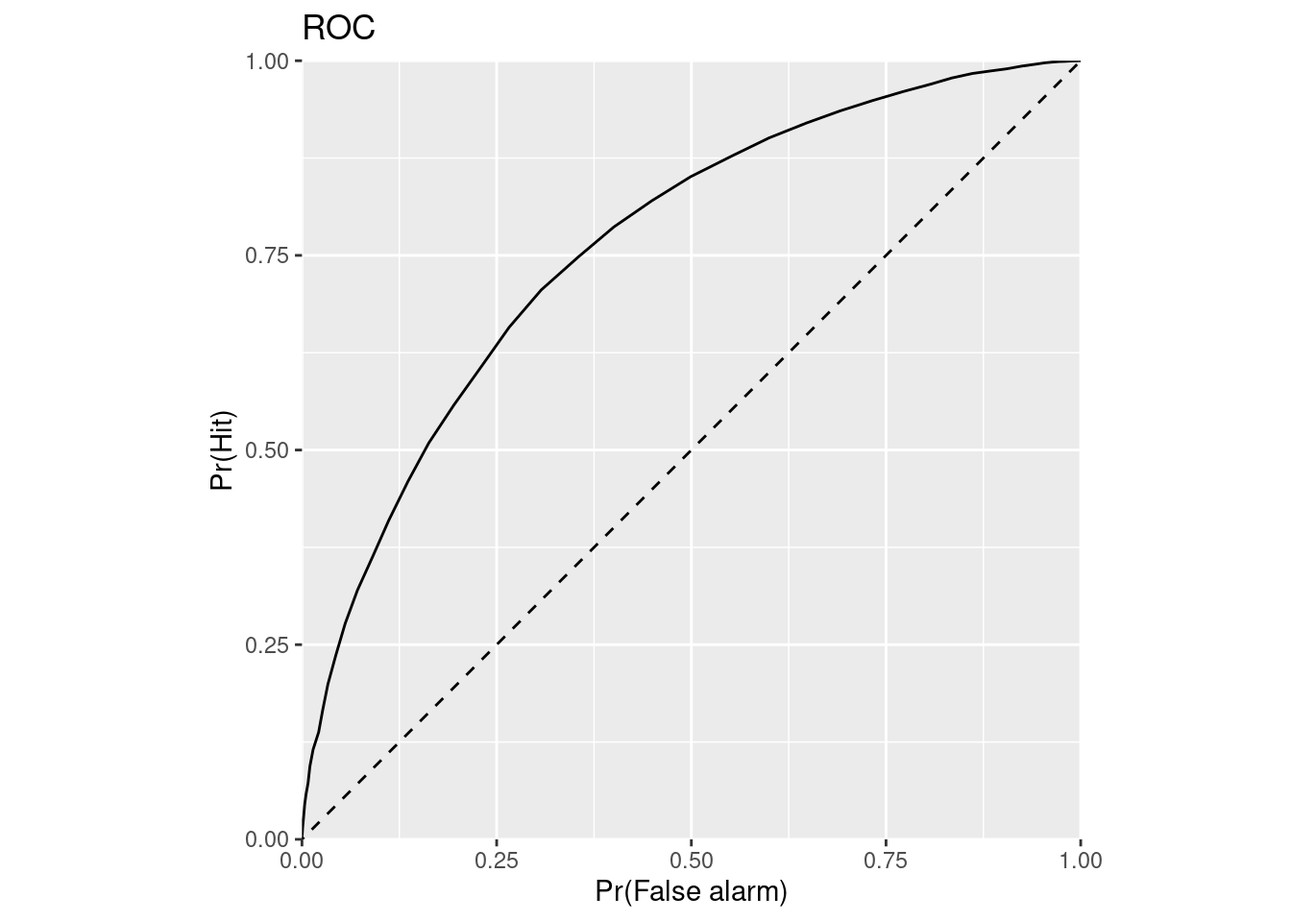
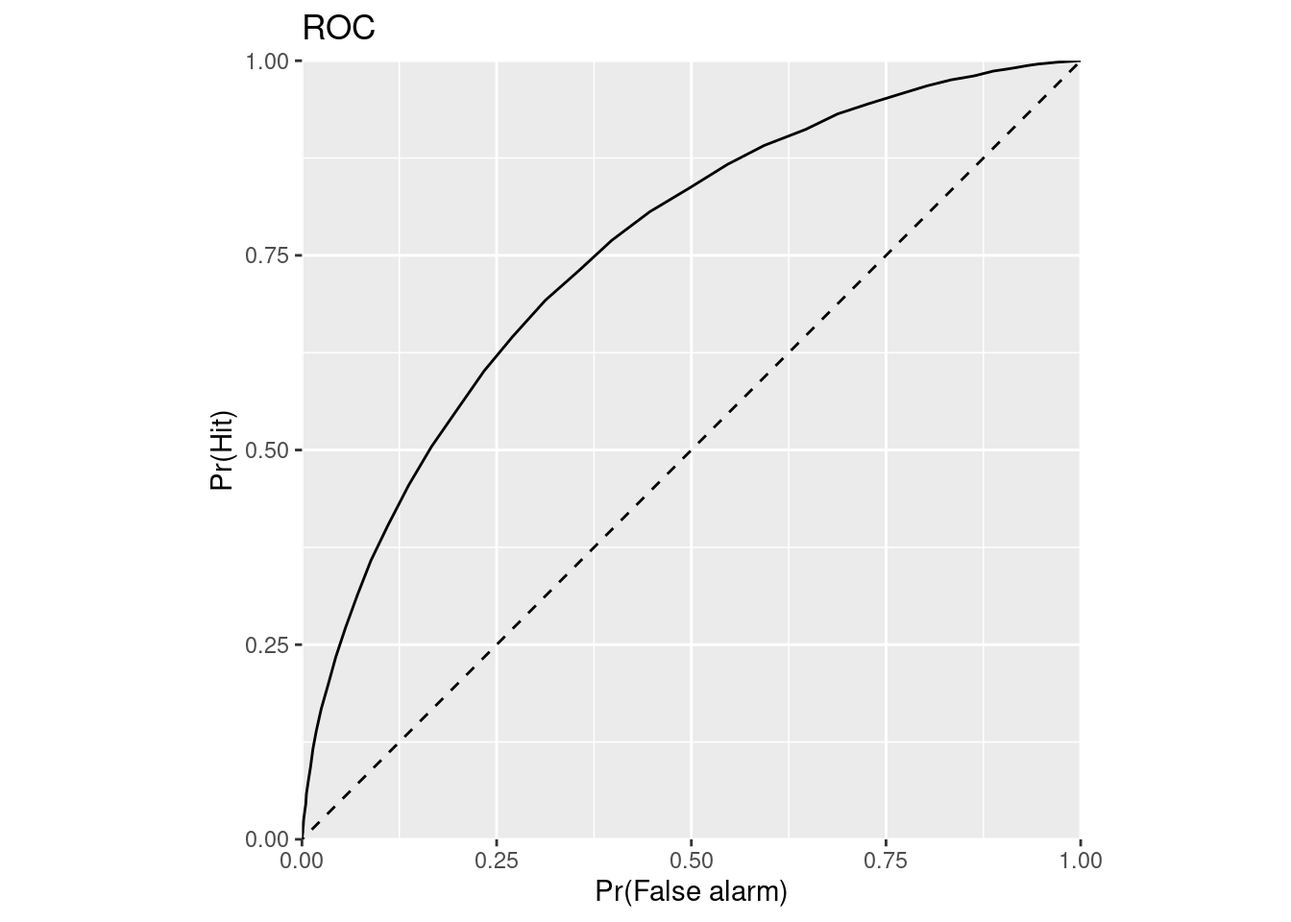
Introduce num_trials variable

diff --git a/docs/sdt.html b/docs/sdt.html
@@ -24,7 +24,7 @@
 <meta name="author" content="Greg Cox" />
 
 
-<meta name="date" content="2021-09-08" />
+<meta name="date" content="2021-09-09" />
 
   <meta name="viewport" content="width=device-width, initial-scale=1" />
   <meta name="apple-mobile-web-app-capable" content="yes" />
@@ -291,7 +291,7 @@ div.csl-indent {
 <h3><span class="header-section-number">1.1.4</span> Modeling strengths</h3>
 <p>We now have a model that instantiates the processes by which strength theory says recognition decisions are made. Pretty neat!</p>
 <p>We have <em>not</em>, however, modeled the distributions of target and foil strength. Instead, we have just plugged in some numbers. Most SDT theories model these strengths as random variables that are sampled from a distribution.</p>
-<p>Another benefit to modeling the strengths is that we can model a situation with a huge number of target/foil trials, far more than would be feasible in any experiment with living creatures. As a result, we can essentially obtain perfect estimates of things like ROC curves by simulating many trials.</p>
+<p>Another benefit to modeling the strengths is that we can model a situation with a huge number of target/foil trials, far more than would be feasible in any experiment with living creatures. As a result, we can essentially obtain perfect estimates of things like ROC curves by simulating many trials (we will keep track of this number using a variable that we will define called <code>num_trials</code>).</p>
 <div id="variability-in-initial-strength" class="section level4" number="1.1.4.1">
 <h4><span class="header-section-number">1.1.4.1</span> Variability in initial strength</h4>
 <p>Let’s begin with a simple model in which we assume that all items initially have a strength that is sampled from a normal distribution with mean 0 and standard deviation 1. When an item is studied, its strength is incremented by <em>exactly</em> 1.</p>
@@ -299,54 +299,60 @@ div.csl-indent {
 <span id="cb18-2"><a href="sdt.html#cb18-2" aria-hidden="true" tabindex="-1"></a>criteria <span class="ot">&lt;-</span> <span class="fu">c</span>(<span class="sc">-</span><span class="cn">Inf</span>, <span class="sc">-</span><span class="fl">0.5</span>, <span class="dv">0</span>, <span class="fl">0.5</span>, <span class="dv">1</span>, <span class="fl">1.5</span>, <span class="cn">Inf</span>)</span>
 <span id="cb18-3"><a href="sdt.html#cb18-3" aria-hidden="true" tabindex="-1"></a></span>
 <span id="cb18-4"><a href="sdt.html#cb18-4" aria-hidden="true" tabindex="-1"></a><span class="co"># 2. Define the strength of the target (studied) and foil (unstudied) items in memory</span></span>
-<span id="cb18-5"><a href="sdt.html#cb18-5" aria-hidden="true" tabindex="-1"></a>foil_strength <span class="ot">&lt;-</span> <span class="fu">rnorm</span>(<span class="at">n =</span> <span class="dv">10000</span>, <span class="at">mean =</span> <span class="dv">0</span>, <span class="at">sd =</span> <span class="dv">1</span>)</span>
-<span id="cb18-6"><a href="sdt.html#cb18-6" aria-hidden="true" tabindex="-1"></a>target_initial_strength <span class="ot">&lt;-</span> <span class="fu">rnorm</span>(<span class="at">n =</span> <span class="dv">10000</span>, <span class="at">mean =</span> <span class="dv">0</span>, <span class="at">sd =</span> <span class="dv">1</span>)</span>
-<span id="cb18-7"><a href="sdt.html#cb18-7" aria-hidden="true" tabindex="-1"></a>study_strength_increment <span class="ot">&lt;-</span> <span class="dv">1</span></span>
-<span id="cb18-8"><a href="sdt.html#cb18-8" aria-hidden="true" tabindex="-1"></a>target_strength <span class="ot">&lt;-</span> target_initial_strength <span class="sc">+</span> study_strength_increment</span>
+<span id="cb18-5"><a href="sdt.html#cb18-5" aria-hidden="true" tabindex="-1"></a>num_trials <span class="ot">&lt;-</span> <span class="dv">10000</span></span>
+<span id="cb18-6"><a href="sdt.html#cb18-6" aria-hidden="true" tabindex="-1"></a></span>
+<span id="cb18-7"><a href="sdt.html#cb18-7" aria-hidden="true" tabindex="-1"></a>foil_strength <span class="ot">&lt;-</span> <span class="fu">rnorm</span>(<span class="at">n =</span> num_trials, <span class="at">mean =</span> <span class="dv">0</span>, <span class="at">sd =</span> <span class="dv">1</span>)</span>
+<span id="cb18-8"><a href="sdt.html#cb18-8" aria-hidden="true" tabindex="-1"></a>target_initial_strength <span class="ot">&lt;-</span> <span class="fu">rnorm</span>(<span class="at">n =</span> num_trials, <span class="at">mean =</span> <span class="dv">0</span>, <span class="at">sd =</span> <span class="dv">1</span>)</span>
 <span id="cb18-9"><a href="sdt.html#cb18-9" aria-hidden="true" tabindex="-1"></a></span>
-<span id="cb18-10"><a href="sdt.html#cb18-10" aria-hidden="true" tabindex="-1"></a><span class="co"># 3. Compare the strengths of each test item to the criteria to arrive at a decision</span></span>
-<span id="cb18-11"><a href="sdt.html#cb18-11" aria-hidden="true" tabindex="-1"></a>foil_response <span class="ot">&lt;-</span> <span class="fu">cut</span>(foil_strength, <span class="at">breaks=</span>criteria, <span class="at">labels=</span><span class="cn">FALSE</span>)</span>
-<span id="cb18-12"><a href="sdt.html#cb18-12" aria-hidden="true" tabindex="-1"></a>target_response <span class="ot">&lt;-</span> <span class="fu">cut</span>(target_strength, <span class="at">breaks=</span>criteria, <span class="at">labels=</span><span class="cn">FALSE</span>)</span>
-<span id="cb18-13"><a href="sdt.html#cb18-13" aria-hidden="true" tabindex="-1"></a></span>
-<span id="cb18-14"><a href="sdt.html#cb18-14" aria-hidden="true" tabindex="-1"></a><span class="co"># 4. Calculate points on ROC curve</span></span>
-<span id="cb18-15"><a href="sdt.html#cb18-15" aria-hidden="true" tabindex="-1"></a>roc_foil <span class="ot">&lt;-</span> <span class="dv">1</span> <span class="sc">-</span> <span class="fu">ecdf</span>(foil_response)(<span class="dv">1</span><span class="sc">:</span><span class="dv">6</span>)</span>
-<span id="cb18-16"><a href="sdt.html#cb18-16" aria-hidden="true" tabindex="-1"></a>roc_target <span class="ot">&lt;-</span> <span class="dv">1</span> <span class="sc">-</span> <span class="fu">ecdf</span>(target_response)(<span class="dv">1</span><span class="sc">:</span><span class="dv">6</span>)</span>
-<span id="cb18-17"><a href="sdt.html#cb18-17" aria-hidden="true" tabindex="-1"></a></span>
-<span id="cb18-18"><a href="sdt.html#cb18-18" aria-hidden="true" tabindex="-1"></a><span class="co"># 5. Plot ROC</span></span>
-<span id="cb18-19"><a href="sdt.html#cb18-19" aria-hidden="true" tabindex="-1"></a><span class="fu">ggplot</span>(<span class="at">mapping=</span><span class="fu">aes</span>(<span class="at">x =</span> roc_foil, <span class="at">y =</span> roc_target)) <span class="sc">+</span></span>
-<span id="cb18-20"><a href="sdt.html#cb18-20" aria-hidden="true" tabindex="-1"></a>    <span class="fu">geom_point</span>() <span class="sc">+</span></span>
-<span id="cb18-21"><a href="sdt.html#cb18-21" aria-hidden="true" tabindex="-1"></a>    <span class="fu">geom_abline</span>(<span class="at">intercept =</span> <span class="dv">0</span>, <span class="at">slope =</span> <span class="dv">1</span>, <span class="at">color=</span><span class="st">&#39;black&#39;</span>, <span class="at">linetype =</span> <span class="st">&#39;dashed&#39;</span>) <span class="sc">+</span></span>
-<span id="cb18-22"><a href="sdt.html#cb18-22" aria-hidden="true" tabindex="-1"></a>    <span class="fu">labs</span>(<span class="at">x =</span> <span class="st">&#39;Pr(False alarm)&#39;</span>, <span class="at">y =</span> <span class="st">&#39;Pr(Hit)&#39;</span>, <span class="at">title =</span> <span class="st">&#39;ROC&#39;</span>) <span class="sc">+</span></span>
-<span id="cb18-23"><a href="sdt.html#cb18-23" aria-hidden="true" tabindex="-1"></a>    <span class="fu">coord_fixed</span>(<span class="at">xlim=</span><span class="fu">c</span>(<span class="dv">0</span>, <span class="dv">1</span>), <span class="at">ylim=</span><span class="fu">c</span>(<span class="dv">0</span>, <span class="dv">1</span>), <span class="at">expand=</span><span class="cn">FALSE</span>)</span></code></pre></div>
+<span id="cb18-10"><a href="sdt.html#cb18-10" aria-hidden="true" tabindex="-1"></a>study_strength_increment <span class="ot">&lt;-</span> <span class="dv">1</span></span>
+<span id="cb18-11"><a href="sdt.html#cb18-11" aria-hidden="true" tabindex="-1"></a>target_strength <span class="ot">&lt;-</span> target_initial_strength <span class="sc">+</span> study_strength_increment</span>
+<span id="cb18-12"><a href="sdt.html#cb18-12" aria-hidden="true" tabindex="-1"></a></span>
+<span id="cb18-13"><a href="sdt.html#cb18-13" aria-hidden="true" tabindex="-1"></a><span class="co"># 3. Compare the strengths of each test item to the criteria to arrive at a decision</span></span>
+<span id="cb18-14"><a href="sdt.html#cb18-14" aria-hidden="true" tabindex="-1"></a>foil_response <span class="ot">&lt;-</span> <span class="fu">cut</span>(foil_strength, <span class="at">breaks=</span>criteria, <span class="at">labels=</span><span class="cn">FALSE</span>)</span>
+<span id="cb18-15"><a href="sdt.html#cb18-15" aria-hidden="true" tabindex="-1"></a>target_response <span class="ot">&lt;-</span> <span class="fu">cut</span>(target_strength, <span class="at">breaks=</span>criteria, <span class="at">labels=</span><span class="cn">FALSE</span>)</span>
+<span id="cb18-16"><a href="sdt.html#cb18-16" aria-hidden="true" tabindex="-1"></a></span>
+<span id="cb18-17"><a href="sdt.html#cb18-17" aria-hidden="true" tabindex="-1"></a><span class="co"># 4. Calculate points on ROC curve</span></span>
+<span id="cb18-18"><a href="sdt.html#cb18-18" aria-hidden="true" tabindex="-1"></a>roc_foil <span class="ot">&lt;-</span> <span class="dv">1</span> <span class="sc">-</span> <span class="fu">ecdf</span>(foil_response)(<span class="dv">1</span><span class="sc">:</span><span class="dv">6</span>)</span>
+<span id="cb18-19"><a href="sdt.html#cb18-19" aria-hidden="true" tabindex="-1"></a>roc_target <span class="ot">&lt;-</span> <span class="dv">1</span> <span class="sc">-</span> <span class="fu">ecdf</span>(target_response)(<span class="dv">1</span><span class="sc">:</span><span class="dv">6</span>)</span>
+<span id="cb18-20"><a href="sdt.html#cb18-20" aria-hidden="true" tabindex="-1"></a></span>
+<span id="cb18-21"><a href="sdt.html#cb18-21" aria-hidden="true" tabindex="-1"></a><span class="co"># 5. Plot ROC</span></span>
+<span id="cb18-22"><a href="sdt.html#cb18-22" aria-hidden="true" tabindex="-1"></a><span class="fu">ggplot</span>(<span class="at">mapping=</span><span class="fu">aes</span>(<span class="at">x =</span> roc_foil, <span class="at">y =</span> roc_target)) <span class="sc">+</span></span>
+<span id="cb18-23"><a href="sdt.html#cb18-23" aria-hidden="true" tabindex="-1"></a>    <span class="fu">geom_point</span>() <span class="sc">+</span></span>
+<span id="cb18-24"><a href="sdt.html#cb18-24" aria-hidden="true" tabindex="-1"></a>    <span class="fu">geom_abline</span>(<span class="at">intercept =</span> <span class="dv">0</span>, <span class="at">slope =</span> <span class="dv">1</span>, <span class="at">color=</span><span class="st">&#39;black&#39;</span>, <span class="at">linetype =</span> <span class="st">&#39;dashed&#39;</span>) <span class="sc">+</span></span>
+<span id="cb18-25"><a href="sdt.html#cb18-25" aria-hidden="true" tabindex="-1"></a>    <span class="fu">labs</span>(<span class="at">x =</span> <span class="st">&#39;Pr(False alarm)&#39;</span>, <span class="at">y =</span> <span class="st">&#39;Pr(Hit)&#39;</span>, <span class="at">title =</span> <span class="st">&#39;ROC&#39;</span>) <span class="sc">+</span></span>
+<span id="cb18-26"><a href="sdt.html#cb18-26" aria-hidden="true" tabindex="-1"></a>    <span class="fu">coord_fixed</span>(<span class="at">xlim=</span><span class="fu">c</span>(<span class="dv">0</span>, <span class="dv">1</span>), <span class="at">ylim=</span><span class="fu">c</span>(<span class="dv">0</span>, <span class="dv">1</span>), <span class="at">expand=</span><span class="cn">FALSE</span>)</span></code></pre></div>
 <p><img src="01-sdt_files/figure-html/unnamed-chunk-12-1.png" width="672" /></p>
 </div>
 <div id="fine-grained-rocs" class="section level4" number="1.1.4.2">
 <h4><span class="header-section-number">1.1.4.2</span> Fine-grained ROC’s</h4>
-<p>Cool! Again, since we’re not using a living creature, we can also ask the model to use an absurdly large number of criteria. The value of this is that it gives us a much more fine-grained picture of the ROC. Even though we couldn’t get such a picture in real life, if the model is a reasonably good approximation to reality, knowing the detailed model ROC let’s us know the kind of shapes we would <em>expect</em> to see in an experiment.</p>
+<p>Cool! Again, since we’re not using a living creature, we can also ask the model to use an absurdly large number of criteria (again, to keep track of this, we will make it into a variable called <code>num_criteria</code>). The value of this is that it gives us a much more fine-grained picture of the ROC. Even though we couldn’t get such a picture in real life, if the model is a reasonably good approximation to reality, knowing the detailed model ROC let’s us know the kind of shapes we would <em>expect</em> to see in an experiment.</p>
 <div class="sourceCode" id="cb19"><pre class="sourceCode r"><code class="sourceCode r"><span id="cb19-1"><a href="sdt.html#cb19-1" aria-hidden="true" tabindex="-1"></a><span class="co"># 1. Define one or more decision criteria</span></span>
 <span id="cb19-2"><a href="sdt.html#cb19-2" aria-hidden="true" tabindex="-1"></a>num_criteria <span class="ot">&lt;-</span> <span class="dv">100</span></span>
 <span id="cb19-3"><a href="sdt.html#cb19-3" aria-hidden="true" tabindex="-1"></a>criteria <span class="ot">&lt;-</span> <span class="fu">c</span>(<span class="sc">-</span><span class="cn">Inf</span>, <span class="fu">seq</span>(<span class="sc">-</span><span class="dv">6</span>, <span class="dv">6</span>, <span class="at">length.out =</span> num_criteria <span class="sc">-</span> <span class="dv">1</span>), <span class="cn">Inf</span>)</span>
 <span id="cb19-4"><a href="sdt.html#cb19-4" aria-hidden="true" tabindex="-1"></a></span>
 <span id="cb19-5"><a href="sdt.html#cb19-5" aria-hidden="true" tabindex="-1"></a><span class="co"># 2. Define the strength of the target (studied) and foil (unstudied) items in memory</span></span>
-<span id="cb19-6"><a href="sdt.html#cb19-6" aria-hidden="true" tabindex="-1"></a>foil_strength <span class="ot">&lt;-</span> <span class="fu">rnorm</span>(<span class="at">n =</span> <span class="dv">10000</span>, <span class="at">mean =</span> <span class="dv">0</span>, <span class="at">sd =</span> <span class="dv">1</span>)</span>
-<span id="cb19-7"><a href="sdt.html#cb19-7" aria-hidden="true" tabindex="-1"></a>target_initial_strength <span class="ot">&lt;-</span> <span class="fu">rnorm</span>(<span class="at">n =</span> <span class="dv">10000</span>, <span class="at">mean =</span> <span class="dv">0</span>, <span class="at">sd =</span> <span class="dv">1</span>)</span>
-<span id="cb19-8"><a href="sdt.html#cb19-8" aria-hidden="true" tabindex="-1"></a>study_strength_increment <span class="ot">&lt;-</span> <span class="dv">1</span></span>
-<span id="cb19-9"><a href="sdt.html#cb19-9" aria-hidden="true" tabindex="-1"></a>target_strength <span class="ot">&lt;-</span> target_initial_strength <span class="sc">+</span> study_strength_increment</span>
+<span id="cb19-6"><a href="sdt.html#cb19-6" aria-hidden="true" tabindex="-1"></a>num_trials <span class="ot">&lt;-</span> <span class="dv">10000</span></span>
+<span id="cb19-7"><a href="sdt.html#cb19-7" aria-hidden="true" tabindex="-1"></a></span>
+<span id="cb19-8"><a href="sdt.html#cb19-8" aria-hidden="true" tabindex="-1"></a>foil_strength <span class="ot">&lt;-</span> <span class="fu">rnorm</span>(<span class="at">n =</span> num_trials, <span class="at">mean =</span> <span class="dv">0</span>, <span class="at">sd =</span> <span class="dv">1</span>)</span>
+<span id="cb19-9"><a href="sdt.html#cb19-9" aria-hidden="true" tabindex="-1"></a>target_initial_strength <span class="ot">&lt;-</span> <span class="fu">rnorm</span>(<span class="at">n =</span> num_trials, <span class="at">mean =</span> <span class="dv">0</span>, <span class="at">sd =</span> <span class="dv">1</span>)</span>
 <span id="cb19-10"><a href="sdt.html#cb19-10" aria-hidden="true" tabindex="-1"></a></span>
-<span id="cb19-11"><a href="sdt.html#cb19-11" aria-hidden="true" tabindex="-1"></a><span class="co"># 3. Compare the strengths of each test item to the criteria to arrive at a decision</span></span>
-<span id="cb19-12"><a href="sdt.html#cb19-12" aria-hidden="true" tabindex="-1"></a>foil_response <span class="ot">&lt;-</span> <span class="fu">cut</span>(foil_strength, <span class="at">breaks=</span>criteria, <span class="at">labels=</span><span class="cn">FALSE</span>)</span>
-<span id="cb19-13"><a href="sdt.html#cb19-13" aria-hidden="true" tabindex="-1"></a>target_response <span class="ot">&lt;-</span> <span class="fu">cut</span>(target_strength, <span class="at">breaks=</span>criteria, <span class="at">labels=</span><span class="cn">FALSE</span>)</span>
-<span id="cb19-14"><a href="sdt.html#cb19-14" aria-hidden="true" tabindex="-1"></a></span>
-<span id="cb19-15"><a href="sdt.html#cb19-15" aria-hidden="true" tabindex="-1"></a><span class="co"># 4. Calculate points on ROC curve</span></span>
-<span id="cb19-16"><a href="sdt.html#cb19-16" aria-hidden="true" tabindex="-1"></a>roc_foil <span class="ot">&lt;-</span> <span class="dv">1</span> <span class="sc">-</span> <span class="fu">ecdf</span>(foil_response)(<span class="dv">1</span><span class="sc">:</span>num_criteria)</span>
-<span id="cb19-17"><a href="sdt.html#cb19-17" aria-hidden="true" tabindex="-1"></a>roc_target <span class="ot">&lt;-</span> <span class="dv">1</span> <span class="sc">-</span> <span class="fu">ecdf</span>(target_response)(<span class="dv">1</span><span class="sc">:</span>num_criteria)</span>
-<span id="cb19-18"><a href="sdt.html#cb19-18" aria-hidden="true" tabindex="-1"></a></span>
-<span id="cb19-19"><a href="sdt.html#cb19-19" aria-hidden="true" tabindex="-1"></a><span class="co"># 5. Plot ROC</span></span>
-<span id="cb19-20"><a href="sdt.html#cb19-20" aria-hidden="true" tabindex="-1"></a><span class="fu">ggplot</span>(<span class="at">mapping=</span><span class="fu">aes</span>(<span class="at">x =</span> roc_foil, <span class="at">y =</span> roc_target)) <span class="sc">+</span></span>
-<span id="cb19-21"><a href="sdt.html#cb19-21" aria-hidden="true" tabindex="-1"></a>    <span class="fu">geom_line</span>() <span class="sc">+</span></span>
-<span id="cb19-22"><a href="sdt.html#cb19-22" aria-hidden="true" tabindex="-1"></a>    <span class="fu">geom_abline</span>(<span class="at">intercept =</span> <span class="dv">0</span>, <span class="at">slope =</span> <span class="dv">1</span>, <span class="at">color=</span><span class="st">&#39;black&#39;</span>, <span class="at">linetype =</span> <span class="st">&#39;dashed&#39;</span>) <span class="sc">+</span></span>
-<span id="cb19-23"><a href="sdt.html#cb19-23" aria-hidden="true" tabindex="-1"></a>    <span class="fu">labs</span>(<span class="at">x =</span> <span class="st">&#39;Pr(False alarm)&#39;</span>, <span class="at">y =</span> <span class="st">&#39;Pr(Hit)&#39;</span>, <span class="at">title =</span> <span class="st">&#39;ROC&#39;</span>) <span class="sc">+</span></span>
-<span id="cb19-24"><a href="sdt.html#cb19-24" aria-hidden="true" tabindex="-1"></a>    <span class="fu">coord_fixed</span>(<span class="at">xlim=</span><span class="fu">c</span>(<span class="dv">0</span>, <span class="dv">1</span>), <span class="at">ylim=</span><span class="fu">c</span>(<span class="dv">0</span>, <span class="dv">1</span>), <span class="at">expand=</span><span class="cn">FALSE</span>)</span></code></pre></div>
+<span id="cb19-11"><a href="sdt.html#cb19-11" aria-hidden="true" tabindex="-1"></a>study_strength_increment <span class="ot">&lt;-</span> <span class="dv">1</span></span>
+<span id="cb19-12"><a href="sdt.html#cb19-12" aria-hidden="true" tabindex="-1"></a>target_strength <span class="ot">&lt;-</span> target_initial_strength <span class="sc">+</span> study_strength_increment</span>
+<span id="cb19-13"><a href="sdt.html#cb19-13" aria-hidden="true" tabindex="-1"></a></span>
+<span id="cb19-14"><a href="sdt.html#cb19-14" aria-hidden="true" tabindex="-1"></a><span class="co"># 3. Compare the strengths of each test item to the criteria to arrive at a decision</span></span>
+<span id="cb19-15"><a href="sdt.html#cb19-15" aria-hidden="true" tabindex="-1"></a>foil_response <span class="ot">&lt;-</span> <span class="fu">cut</span>(foil_strength, <span class="at">breaks=</span>criteria, <span class="at">labels=</span><span class="cn">FALSE</span>)</span>
+<span id="cb19-16"><a href="sdt.html#cb19-16" aria-hidden="true" tabindex="-1"></a>target_response <span class="ot">&lt;-</span> <span class="fu">cut</span>(target_strength, <span class="at">breaks=</span>criteria, <span class="at">labels=</span><span class="cn">FALSE</span>)</span>
+<span id="cb19-17"><a href="sdt.html#cb19-17" aria-hidden="true" tabindex="-1"></a></span>
+<span id="cb19-18"><a href="sdt.html#cb19-18" aria-hidden="true" tabindex="-1"></a><span class="co"># 4. Calculate points on ROC curve</span></span>
+<span id="cb19-19"><a href="sdt.html#cb19-19" aria-hidden="true" tabindex="-1"></a>roc_foil <span class="ot">&lt;-</span> <span class="dv">1</span> <span class="sc">-</span> <span class="fu">ecdf</span>(foil_response)(<span class="dv">1</span><span class="sc">:</span>num_criteria)</span>
+<span id="cb19-20"><a href="sdt.html#cb19-20" aria-hidden="true" tabindex="-1"></a>roc_target <span class="ot">&lt;-</span> <span class="dv">1</span> <span class="sc">-</span> <span class="fu">ecdf</span>(target_response)(<span class="dv">1</span><span class="sc">:</span>num_criteria)</span>
+<span id="cb19-21"><a href="sdt.html#cb19-21" aria-hidden="true" tabindex="-1"></a></span>
+<span id="cb19-22"><a href="sdt.html#cb19-22" aria-hidden="true" tabindex="-1"></a><span class="co"># 5. Plot ROC</span></span>
+<span id="cb19-23"><a href="sdt.html#cb19-23" aria-hidden="true" tabindex="-1"></a><span class="fu">ggplot</span>(<span class="at">mapping=</span><span class="fu">aes</span>(<span class="at">x =</span> roc_foil, <span class="at">y =</span> roc_target)) <span class="sc">+</span></span>
+<span id="cb19-24"><a href="sdt.html#cb19-24" aria-hidden="true" tabindex="-1"></a>    <span class="fu">geom_line</span>() <span class="sc">+</span></span>
+<span id="cb19-25"><a href="sdt.html#cb19-25" aria-hidden="true" tabindex="-1"></a>    <span class="fu">geom_abline</span>(<span class="at">intercept =</span> <span class="dv">0</span>, <span class="at">slope =</span> <span class="dv">1</span>, <span class="at">color=</span><span class="st">&#39;black&#39;</span>, <span class="at">linetype =</span> <span class="st">&#39;dashed&#39;</span>) <span class="sc">+</span></span>
+<span id="cb19-26"><a href="sdt.html#cb19-26" aria-hidden="true" tabindex="-1"></a>    <span class="fu">labs</span>(<span class="at">x =</span> <span class="st">&#39;Pr(False alarm)&#39;</span>, <span class="at">y =</span> <span class="st">&#39;Pr(Hit)&#39;</span>, <span class="at">title =</span> <span class="st">&#39;ROC&#39;</span>) <span class="sc">+</span></span>
+<span id="cb19-27"><a href="sdt.html#cb19-27" aria-hidden="true" tabindex="-1"></a>    <span class="fu">coord_fixed</span>(<span class="at">xlim=</span><span class="fu">c</span>(<span class="dv">0</span>, <span class="dv">1</span>), <span class="at">ylim=</span><span class="fu">c</span>(<span class="dv">0</span>, <span class="dv">1</span>), <span class="at">expand=</span><span class="cn">FALSE</span>)</span></code></pre></div>
 <p><img src="01-sdt_files/figure-html/unnamed-chunk-13-1.png" width="672" /></p>
 </div>
 <div id="variability-in-study-strength-increments" class="section level4" number="1.1.4.3">
@@ -357,25 +363,28 @@ div.csl-indent {
 <span id="cb20-3"><a href="sdt.html#cb20-3" aria-hidden="true" tabindex="-1"></a>criteria <span class="ot">&lt;-</span> <span class="fu">c</span>(<span class="sc">-</span><span class="cn">Inf</span>, <span class="fu">seq</span>(<span class="sc">-</span><span class="dv">6</span>, <span class="dv">6</span>, <span class="at">length.out =</span> num_criteria <span class="sc">-</span> <span class="dv">1</span>), <span class="cn">Inf</span>)</span>
 <span id="cb20-4"><a href="sdt.html#cb20-4" aria-hidden="true" tabindex="-1"></a></span>
 <span id="cb20-5"><a href="sdt.html#cb20-5" aria-hidden="true" tabindex="-1"></a><span class="co"># 2. Define the strength of the target (studied) and foil (unstudied) items in memory</span></span>
-<span id="cb20-6"><a href="sdt.html#cb20-6" aria-hidden="true" tabindex="-1"></a>foil_strength <span class="ot">&lt;-</span> <span class="fu">rnorm</span>(<span class="at">n =</span> <span class="dv">10000</span>, <span class="at">mean =</span> <span class="dv">0</span>, <span class="at">sd =</span> <span class="dv">1</span>)</span>
-<span id="cb20-7"><a href="sdt.html#cb20-7" aria-hidden="true" tabindex="-1"></a>target_initial_strength <span class="ot">&lt;-</span> <span class="fu">rnorm</span>(<span class="at">n =</span> <span class="dv">10000</span>, <span class="at">mean =</span> <span class="dv">0</span>, <span class="at">sd =</span> <span class="dv">1</span>)</span>
-<span id="cb20-8"><a href="sdt.html#cb20-8" aria-hidden="true" tabindex="-1"></a>study_strength_increment <span class="ot">&lt;-</span> <span class="fu">rnorm</span>(<span class="at">n =</span> <span class="dv">10000</span>, <span class="at">mean =</span> <span class="dv">1</span>, <span class="at">sd =</span> <span class="dv">1</span>)</span>
-<span id="cb20-9"><a href="sdt.html#cb20-9" aria-hidden="true" tabindex="-1"></a>target_strength <span class="ot">&lt;-</span> target_initial_strength <span class="sc">+</span> study_strength_increment</span>
+<span id="cb20-6"><a href="sdt.html#cb20-6" aria-hidden="true" tabindex="-1"></a>num_trials <span class="ot">&lt;-</span> <span class="dv">10000</span></span>
+<span id="cb20-7"><a href="sdt.html#cb20-7" aria-hidden="true" tabindex="-1"></a></span>
+<span id="cb20-8"><a href="sdt.html#cb20-8" aria-hidden="true" tabindex="-1"></a>foil_strength <span class="ot">&lt;-</span> <span class="fu">rnorm</span>(<span class="at">n =</span> num_trials, <span class="at">mean =</span> <span class="dv">0</span>, <span class="at">sd =</span> <span class="dv">1</span>)</span>
+<span id="cb20-9"><a href="sdt.html#cb20-9" aria-hidden="true" tabindex="-1"></a>target_initial_strength <span class="ot">&lt;-</span> <span class="fu">rnorm</span>(<span class="at">n =</span> num_trials, <span class="at">mean =</span> <span class="dv">0</span>, <span class="at">sd =</span> <span class="dv">1</span>)</span>
 <span id="cb20-10"><a href="sdt.html#cb20-10" aria-hidden="true" tabindex="-1"></a></span>
-<span id="cb20-11"><a href="sdt.html#cb20-11" aria-hidden="true" tabindex="-1"></a><span class="co"># 3. Compare the strengths of each test item to the criteria to arrive at a decision</span></span>
-<span id="cb20-12"><a href="sdt.html#cb20-12" aria-hidden="true" tabindex="-1"></a>foil_response <span class="ot">&lt;-</span> <span class="fu">cut</span>(foil_strength, <span class="at">breaks=</span>criteria, <span class="at">labels=</span><span class="cn">FALSE</span>)</span>
-<span id="cb20-13"><a href="sdt.html#cb20-13" aria-hidden="true" tabindex="-1"></a>target_response <span class="ot">&lt;-</span> <span class="fu">cut</span>(target_strength, <span class="at">breaks=</span>criteria, <span class="at">labels=</span><span class="cn">FALSE</span>)</span>
-<span id="cb20-14"><a href="sdt.html#cb20-14" aria-hidden="true" tabindex="-1"></a></span>
-<span id="cb20-15"><a href="sdt.html#cb20-15" aria-hidden="true" tabindex="-1"></a><span class="co"># 4. Calculate points on ROC curve</span></span>
-<span id="cb20-16"><a href="sdt.html#cb20-16" aria-hidden="true" tabindex="-1"></a>roc_foil <span class="ot">&lt;-</span> <span class="dv">1</span> <span class="sc">-</span> <span class="fu">ecdf</span>(foil_response)(<span class="dv">1</span><span class="sc">:</span>num_criteria)</span>
-<span id="cb20-17"><a href="sdt.html#cb20-17" aria-hidden="true" tabindex="-1"></a>roc_target <span class="ot">&lt;-</span> <span class="dv">1</span> <span class="sc">-</span> <span class="fu">ecdf</span>(target_response)(<span class="dv">1</span><span class="sc">:</span>num_criteria)</span>
-<span id="cb20-18"><a href="sdt.html#cb20-18" aria-hidden="true" tabindex="-1"></a></span>
-<span id="cb20-19"><a href="sdt.html#cb20-19" aria-hidden="true" tabindex="-1"></a><span class="co"># 5. Plot ROC</span></span>
-<span id="cb20-20"><a href="sdt.html#cb20-20" aria-hidden="true" tabindex="-1"></a><span class="fu">ggplot</span>(<span class="at">mapping=</span><span class="fu">aes</span>(<span class="at">x =</span> roc_foil, <span class="at">y =</span> roc_target)) <span class="sc">+</span></span>
-<span id="cb20-21"><a href="sdt.html#cb20-21" aria-hidden="true" tabindex="-1"></a>    <span class="fu">geom_line</span>() <span class="sc">+</span></span>
-<span id="cb20-22"><a href="sdt.html#cb20-22" aria-hidden="true" tabindex="-1"></a>    <span class="fu">geom_abline</span>(<span class="at">intercept =</span> <span class="dv">0</span>, <span class="at">slope =</span> <span class="dv">1</span>, <span class="at">color=</span><span class="st">&#39;black&#39;</span>, <span class="at">linetype =</span> <span class="st">&#39;dashed&#39;</span>) <span class="sc">+</span></span>
-<span id="cb20-23"><a href="sdt.html#cb20-23" aria-hidden="true" tabindex="-1"></a>    <span class="fu">labs</span>(<span class="at">x =</span> <span class="st">&#39;Pr(False alarm)&#39;</span>, <span class="at">y =</span> <span class="st">&#39;Pr(Hit)&#39;</span>, <span class="at">title =</span> <span class="st">&#39;ROC&#39;</span>) <span class="sc">+</span></span>
-<span id="cb20-24"><a href="sdt.html#cb20-24" aria-hidden="true" tabindex="-1"></a>    <span class="fu">coord_fixed</span>(<span class="at">xlim=</span><span class="fu">c</span>(<span class="dv">0</span>, <span class="dv">1</span>), <span class="at">ylim=</span><span class="fu">c</span>(<span class="dv">0</span>, <span class="dv">1</span>), <span class="at">expand=</span><span class="cn">FALSE</span>)</span></code></pre></div>
+<span id="cb20-11"><a href="sdt.html#cb20-11" aria-hidden="true" tabindex="-1"></a>study_strength_increment <span class="ot">&lt;-</span> <span class="fu">rnorm</span>(<span class="at">n =</span> num_trials, <span class="at">mean =</span> <span class="dv">1</span>, <span class="at">sd =</span> <span class="dv">1</span>)</span>
+<span id="cb20-12"><a href="sdt.html#cb20-12" aria-hidden="true" tabindex="-1"></a>target_strength <span class="ot">&lt;-</span> target_initial_strength <span class="sc">+</span> study_strength_increment</span>
+<span id="cb20-13"><a href="sdt.html#cb20-13" aria-hidden="true" tabindex="-1"></a></span>
+<span id="cb20-14"><a href="sdt.html#cb20-14" aria-hidden="true" tabindex="-1"></a><span class="co"># 3. Compare the strengths of each test item to the criteria to arrive at a decision</span></span>
+<span id="cb20-15"><a href="sdt.html#cb20-15" aria-hidden="true" tabindex="-1"></a>foil_response <span class="ot">&lt;-</span> <span class="fu">cut</span>(foil_strength, <span class="at">breaks=</span>criteria, <span class="at">labels=</span><span class="cn">FALSE</span>)</span>
+<span id="cb20-16"><a href="sdt.html#cb20-16" aria-hidden="true" tabindex="-1"></a>target_response <span class="ot">&lt;-</span> <span class="fu">cut</span>(target_strength, <span class="at">breaks=</span>criteria, <span class="at">labels=</span><span class="cn">FALSE</span>)</span>
+<span id="cb20-17"><a href="sdt.html#cb20-17" aria-hidden="true" tabindex="-1"></a></span>
+<span id="cb20-18"><a href="sdt.html#cb20-18" aria-hidden="true" tabindex="-1"></a><span class="co"># 4. Calculate points on ROC curve</span></span>
+<span id="cb20-19"><a href="sdt.html#cb20-19" aria-hidden="true" tabindex="-1"></a>roc_foil <span class="ot">&lt;-</span> <span class="dv">1</span> <span class="sc">-</span> <span class="fu">ecdf</span>(foil_response)(<span class="dv">1</span><span class="sc">:</span>num_criteria)</span>
+<span id="cb20-20"><a href="sdt.html#cb20-20" aria-hidden="true" tabindex="-1"></a>roc_target <span class="ot">&lt;-</span> <span class="dv">1</span> <span class="sc">-</span> <span class="fu">ecdf</span>(target_response)(<span class="dv">1</span><span class="sc">:</span>num_criteria)</span>
+<span id="cb20-21"><a href="sdt.html#cb20-21" aria-hidden="true" tabindex="-1"></a></span>
+<span id="cb20-22"><a href="sdt.html#cb20-22" aria-hidden="true" tabindex="-1"></a><span class="co"># 5. Plot ROC</span></span>
+<span id="cb20-23"><a href="sdt.html#cb20-23" aria-hidden="true" tabindex="-1"></a><span class="fu">ggplot</span>(<span class="at">mapping=</span><span class="fu">aes</span>(<span class="at">x =</span> roc_foil, <span class="at">y =</span> roc_target)) <span class="sc">+</span></span>
+<span id="cb20-24"><a href="sdt.html#cb20-24" aria-hidden="true" tabindex="-1"></a>    <span class="fu">geom_line</span>() <span class="sc">+</span></span>
+<span id="cb20-25"><a href="sdt.html#cb20-25" aria-hidden="true" tabindex="-1"></a>    <span class="fu">geom_abline</span>(<span class="at">intercept =</span> <span class="dv">0</span>, <span class="at">slope =</span> <span class="dv">1</span>, <span class="at">color=</span><span class="st">&#39;black&#39;</span>, <span class="at">linetype =</span> <span class="st">&#39;dashed&#39;</span>) <span class="sc">+</span></span>
+<span id="cb20-26"><a href="sdt.html#cb20-26" aria-hidden="true" tabindex="-1"></a>    <span class="fu">labs</span>(<span class="at">x =</span> <span class="st">&#39;Pr(False alarm)&#39;</span>, <span class="at">y =</span> <span class="st">&#39;Pr(Hit)&#39;</span>, <span class="at">title =</span> <span class="st">&#39;ROC&#39;</span>) <span class="sc">+</span></span>
+<span id="cb20-27"><a href="sdt.html#cb20-27" aria-hidden="true" tabindex="-1"></a>    <span class="fu">coord_fixed</span>(<span class="at">xlim=</span><span class="fu">c</span>(<span class="dv">0</span>, <span class="dv">1</span>), <span class="at">ylim=</span><span class="fu">c</span>(<span class="dv">0</span>, <span class="dv">1</span>), <span class="at">expand=</span><span class="cn">FALSE</span>)</span></code></pre></div>
 <p><img src="01-sdt_files/figure-html/unnamed-chunk-14-1.png" width="672" /></p>
 </div>
 </div>

diff --git a/docs/index.html b/docs/index.html
@@ -24,7 +24,7 @@
 <meta name="author" content="Greg Cox" />
 
 
-<meta name="date" content="2021-09-08" />
+<meta name="date" content="2021-09-09" />
 
   <meta name="viewport" content="width=device-width, initial-scale=1" />
   <meta name="apple-mobile-web-app-capable" content="yes" />
@@ -195,7 +195,7 @@ div.csl-indent {
 <div id="header">
 <h1 class="title">Exploring Models of Memory</h1>
 <p class="author"><em>Greg Cox</em></p>
-<p class="date" style="margin-top: 1.5em;"><em>2021-09-08</em></p>
+<p class="date" style="margin-top: 1.5em;"><em>2021-09-09</em></p>
 </div>
 <div id="preface" class="section level1 unnumbered">
 <h1>Preface</h1>

diff --git a/docs/references.html b/docs/references.html
@@ -24,7 +24,7 @@
 <meta name="author" content="Greg Cox" />
 
 
-<meta name="date" content="2021-09-08" />
+<meta name="date" content="2021-09-09" />
 
   <meta name="viewport" content="width=device-width, initial-scale=1" />
   <meta name="apple-mobile-web-app-capable" content="yes" />

diff --git a/docs/01-sdt.md b/docs/01-sdt.md
@@ -171,7 +171,7 @@ We now have a model that instantiates the processes by which strength theory say
 
 We have *not*, however, modeled the distributions of target and foil strength.  Instead, we have just plugged in some numbers.  Most SDT theories model these strengths as random variables that are sampled from a distribution.
 
-Another benefit to modeling the strengths is that we can model a situation with a huge number of target/foil trials, far more than would be feasible in any experiment with living creatures.  As a result, we can essentially obtain perfect estimates of things like ROC curves by simulating many trials.
+Another benefit to modeling the strengths is that we can model a situation with a huge number of target/foil trials, far more than would be feasible in any experiment with living creatures.  As a result, we can essentially obtain perfect estimates of things like ROC curves by simulating many trials (we will keep track of this number using a variable that we will define called `num_trials`).
 
 #### Variability in initial strength
 
@@ -183,8 +183,11 @@ Let's begin with a simple model in which we assume that all items initially have
 criteria <- c(-Inf, -0.5, 0, 0.5, 1, 1.5, Inf)
 
 # 2. Define the strength of the target (studied) and foil (unstudied) items in memory
-foil_strength <- rnorm(n = 10000, mean = 0, sd = 1)
-target_initial_strength <- rnorm(n = 10000, mean = 0, sd = 1)
+num_trials <- 10000
+
+foil_strength <- rnorm(n = num_trials, mean = 0, sd = 1)
+target_initial_strength <- rnorm(n = num_trials, mean = 0, sd = 1)
+
 study_strength_increment <- 1
 target_strength <- target_initial_strength + study_strength_increment
 
@@ -208,7 +211,7 @@ ggplot(mapping=aes(x = roc_foil, y = roc_target)) +
 
 #### Fine-grained ROC's
 
-Cool!  Again, since we're not using a living creature, we can also ask the model to use an absurdly large number of criteria.  The value of this is that it gives us a much more fine-grained picture of the ROC.  Even though we couldn't get such a picture in real life, if the model is a reasonably good approximation to reality, knowing the detailed model ROC let's us know the kind of shapes we would *expect* to see in an experiment.
+Cool!  Again, since we're not using a living creature, we can also ask the model to use an absurdly large number of criteria (again, to keep track of this, we will make it into a variable called `num_criteria`).  The value of this is that it gives us a much more fine-grained picture of the ROC.  Even though we couldn't get such a picture in real life, if the model is a reasonably good approximation to reality, knowing the detailed model ROC let's us know the kind of shapes we would *expect* to see in an experiment.
 
 
 ```r
@@ -217,8 +220,11 @@ num_criteria <- 100
 criteria <- c(-Inf, seq(-6, 6, length.out = num_criteria - 1), Inf)
 
 # 2. Define the strength of the target (studied) and foil (unstudied) items in memory
-foil_strength <- rnorm(n = 10000, mean = 0, sd = 1)
-target_initial_strength <- rnorm(n = 10000, mean = 0, sd = 1)
+num_trials <- 10000
+
+foil_strength <- rnorm(n = num_trials, mean = 0, sd = 1)
+target_initial_strength <- rnorm(n = num_trials, mean = 0, sd = 1)
+
 study_strength_increment <- 1
 target_strength <- target_initial_strength + study_strength_increment
 
@@ -251,9 +257,12 @@ num_criteria <- 100
 criteria <- c(-Inf, seq(-6, 6, length.out = num_criteria - 1), Inf)
 
 # 2. Define the strength of the target (studied) and foil (unstudied) items in memory
-foil_strength <- rnorm(n = 10000, mean = 0, sd = 1)
-target_initial_strength <- rnorm(n = 10000, mean = 0, sd = 1)
-study_strength_increment <- rnorm(n = 10000, mean = 1, sd = 1)
+num_trials <- 10000
+
+foil_strength <- rnorm(n = num_trials, mean = 0, sd = 1)
+target_initial_strength <- rnorm(n = num_trials, mean = 0, sd = 1)
+
+study_strength_increment <- rnorm(n = num_trials, mean = 1, sd = 1)
 target_strength <- target_initial_strength + study_strength_increment
 
 # 3. Compare the strengths of each test item to the criteria to arrive at a decision

diff --git a/docs/index.md b/docs/index.md
@@ -1,7 +1,7 @@
 --- 
 title: "Exploring Models of Memory"
 author: "Greg Cox"
-date: "2021-09-08"
+date: "2021-09-09"
 site: bookdown::bookdown_site
 documentclass: book
 bibliography: [book.bib, packages.bib]
